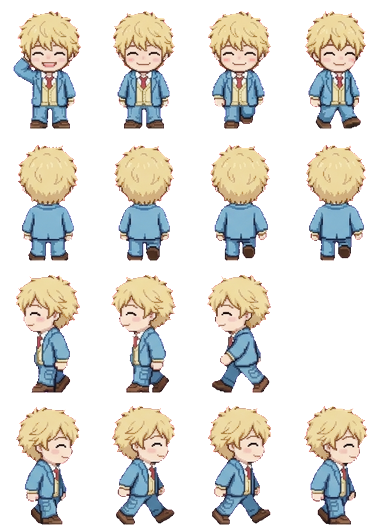
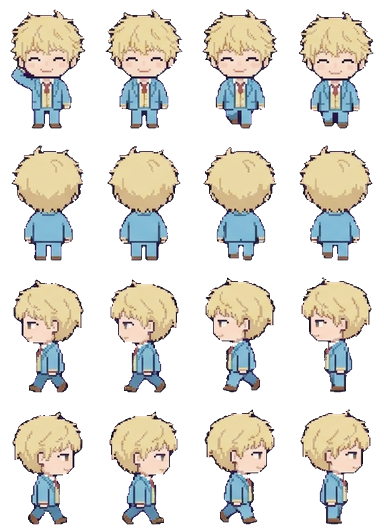
Redraw Shima Sousuke in the shared art style
Claude-Session: https://claude.ai/code/session_01KaPsBYLrtbRfMYNG2xeBCK

diff --git a/docs/app.js b/docs/app.js
@@ -75,7 +75,7 @@ function spr(cat, k, col, sc) {
   return `<div class="clip" style="width:${it[2] * sc}px;height:${it[3] * sc}px;POS"><img class="px" src="assets/decor/${cat}.png" alt="" style="width:${S.sw * sc}px;height:${S.sh * sc}px;margin-left:${-col * S.cw * sc}px;margin-top:${-i * S.ch * sc}px"></div>`;
 }
 const icon = (k, sz) => `<span class="itm" style="width:${sz}px;height:${sz}px"><img class="px" src="assets/ui/items.png" alt="" style="width:${IT.length * sz}px;height:${sz}px;margin-left:${-ITM[k].i * sz}px"></span>`;
-const face = (id, w) => { const s = w / 96; return `<img class="px" src="assets/ch/${id}.webp?v=39" alt="" style="position:absolute;width:${384 * s}px;height:${528 * s}px;left:${-(96 * s - w) / 2}px;top:0;max-width:none">`; };
+const face = (id, w) => { const s = w / 96; return `<img class="px" src="assets/ch/${id}.webp?v=40" alt="" style="position:absolute;width:${384 * s}px;height:${528 * s}px;left:${-(96 * s - w) / 2}px;top:0;max-width:none">`; };
 
 // ---------- 저장 ----------
 let fb = null, user = null, S = null, saveT = null;
@@ -143,7 +143,7 @@ function sleepHTML(id, r, dy) {
   const pos = r.a && r.a[0] === 'bed' ? 'left:3%;bottom:20%' : r.b && r.b[0] === 'bed' ? 'right:3%;bottom:20%' : 'left:calc(50% - 44px);bottom:6%';
   const s = 36 / 96;
   return `<div style="position:absolute;width:88px;height:56px;${pos};z-index:${dy ? 4 : 5};${dy ? `transform:translate(12px,${dy}px)` : ''}"><div style="position:absolute;inset:0;filter:brightness(.22)">
-    <div style="position:absolute;left:11px;top:1px;width:36px;height:50px;overflow:hidden;transform:rotate(-90deg)"><img class="px" src="assets/ch/${id}.webp?v=39" alt="" style="width:${384 * s}px;height:${528 * s}px;max-width:none;margin-top:${-132 * s}px"></div>
+    <div style="position:absolute;left:11px;top:1px;width:36px;height:50px;overflow:hidden;transform:rotate(-90deg)"><img class="px" src="assets/ch/${id}.webp?v=40" alt="" style="width:${384 * s}px;height:${528 * s}px;max-width:none;margin-top:${-132 * s}px"></div>
     <div style="position:absolute;left:19px;top:19px;width:67px;height:29px;border:2px solid var(--ink);border-radius:8px 6px 4px 4px;background:#8ccff5;background-image:repeating-linear-gradient(90deg,transparent 0 10px,rgba(255,255,255,.5) 10px 13px)"></div></div>
     ${dy ? '' : '<span class="emo" style="left:8px;top:-22px;color:#5b6bd6">Z z z</span>'}</div>`;
 }
@@ -153,8 +153,8 @@ function roomHTML(id, o, scale) {
     <div class="floor" style="background-color:${PAL[r.fc][1]};background-image:${tileUrl('floor', r.fl)}"></div>
     ${slot('deco', r.dc, 'left:6%;top:6%')}${slot('furn', r.a, 'left:3%;bottom:20%')}${slot('furn', r.b, 'right:3%;bottom:20%')}${slot('prop', r.pr, 'left:28%;bottom:4%;z-index:2')}
     ${id && o.sleeping && g ? sleepHTML(g, r, -16) : ''}${id && o.sleeping ? sleepHTML(id, r) : ''}${id && o.job ? `<div style="position:absolute;left:50%;top:38%;transform:translateX(-50%);z-index:5;background:#fff;border:3px solid var(--ink);border-radius:10px;padding:6px 10px;font-size:11px;text-align:center;line-height:1.5"><img src="assets/ui/ic_job.png" alt="" style="width:18px;vertical-align:-4px"> ${WORK[id] ? WORK[id][1] : esc(JOB_NAME[id]) + ' 알바 중'}${g ? `<br><small>${esc(nameOf(g))}도 같이</small>` : ''}<br><b id="jobleft">${timeLeft(o.job.until)}</b></div>` : ''}
-    ${id ? `<div class="shadow" id="shd" ${o.sleeping || o.job ? 'style="display:none"' : ''}></div><div class="man" id="man" ${o.sleeping || o.job ? 'style="display:none"' : ''}><img class="px" src="assets/ch/${id}.webp?v=39" alt="${esc(nameOf(id))}"></div><span class="emo" id="emo" hidden></span><span class="mumble" id="mum" hidden></span>` : ''}
-    ${g ? `<div class="shadow" id="gshd" ${hideG}></div><div class="man" id="gman" ${hideG}><img class="px" src="assets/ch/${g}.webp?v=39" alt="${esc(nameOf(g))}"></div><span class="emo" id="gemo" hidden></span><span class="mumble gmum" id="gmum" hidden></span>` : ''}
+    ${id ? `<div class="shadow" id="shd" ${o.sleeping || o.job ? 'style="display:none"' : ''}></div><div class="man" id="man" ${o.sleeping || o.job ? 'style="display:none"' : ''}><img class="px" src="assets/ch/${id}.webp?v=40" alt="${esc(nameOf(id))}"></div><span class="emo" id="emo" hidden></span><span class="mumble" id="mum" hidden></span>` : ''}
+    ${g ? `<div class="shadow" id="gshd" ${hideG}></div><div class="man" id="gman" ${hideG}><img class="px" src="assets/ch/${g}.webp?v=40" alt="${esc(nameOf(g))}"></div><span class="emo" id="gemo" hidden></span><span class="mumble gmum" id="gmum" hidden></span>` : ''}
     ${o.sleeping ? `<div class="night"></div><div class="sleepleft">쿨쿨 · 일어나기까지 <b id="sleepleft">${timeLeft(wakeAt(o)).replace(' 남음', '')}</b></div>` : ''}
   </div>`;
 }
@@ -167,7 +167,7 @@ function meterHTML(o) {
 const ic = (act, img, label, pressed) => `<button class="ic" data-act="${act}" ${pressed ? 'aria-pressed="true"' : ''}><img src="assets/ui/ic_${img}.png?v=2" alt="">${label}</button>`;
 
 let dropStyle = null; const cheat = {};
-const APP_V = 111, COUPONS = { NINOGUYA: 3000 };
+const APP_V = 112, COUPONS = { NINOGUYA: 3000 };
 // 쿠폰 입력 정리: 한글 자판 상태로 친 글자(ㅜㅑㅜㅐ혀ㅛㅁ)도 영어 자판 글자로 바꾸고, 대소문자·띄어쓰기·마침표는 무시해요
 const KEY = { ㄱ: 'r', ㄲ: 'R', ㄴ: 's', ㄷ: 'e', ㄸ: 'E', ㄹ: 'f', ㅁ: 'a', ㅂ: 'q', ㅃ: 'Q', ㅅ: 't', ㅆ: 'T', ㅇ: 'd', ㅈ: 'w', ㅉ: 'W', ㅊ: 'c', ㅋ: 'z', ㅌ: 'x', ㅍ: 'v', ㅎ: 'g',
   ㅏ: 'k', ㅐ: 'o', ㅑ: 'i', ㅒ: 'O', ㅓ: 'j', ㅔ: 'p', ㅕ: 'u', ㅖ: 'P', ㅗ: 'h', ㅘ: 'hk', ㅙ: 'ho', ㅚ: 'hl', ㅛ: 'y', ㅜ: 'n', ㅝ: 'nj', ㅞ: 'np', ㅟ: 'nl', ㅠ: 'b', ㅡ: 'm', ㅢ: 'ml', ㅣ: 'l',
@@ -407,7 +407,7 @@ function startTrip(k) {
   if (tg) lines[1] = `${nameOf(tg)}: ${withHim(sub(pick(GLX(tg).trip), o, c.n), tg)}`;
   const n = (FR[id] || [4, 4, 4, 4])[3], el = document.createElement('div'); el.className = 'tripview';
   el.innerHTML = `<div class="tsay"> </div><div class="tstage" style="background-image:url(assets/travel/${k}.png?v=2)"><div class="tplace">${esc(c.n)}</div>
-    <div class="twalker"><img class="px" src="assets/ch/${id}.webp?v=39" alt=""></div>${tg ? `<div class="twalker tgirl"><img class="px" src="assets/ch/${tg}.webp?v=39" alt=""></div>` : ''}<span class="emo tjoy">♪</span></div>
+    <div class="twalker"><img class="px" src="assets/ch/${id}.webp?v=40" alt=""></div>${tg ? `<div class="twalker tgirl"><img class="px" src="assets/ch/${tg}.webp?v=40" alt=""></div>` : ''}<span class="emo tjoy">♪</span></div>
     <div class="tbar"><i></i></div><button class="btn white tskip" data-tskip="1">바로 돌아오기</button>`;
   document.body.appendChild(el);
   const gimg = el.querySelector('.tgirl img'), gn = tg ? (FR[tg] || [4, 4, 4, 4])[3] : 1;
@@ -636,7 +636,7 @@ setInterval(() => { if (S && user) { tickTime(); save(); } }, 60000);
     if (nv > APP_V && !location.search.includes('u=' + nv)) { location.replace(location.pathname + '?u=' + nv); return; }
   } catch { }
   app.innerHTML = '<div class="start"><div class="egg"><div class="scr"></div></div><div class="note">불러오는 중....</div></div>';
-  const [c, t, f, it, mu, ct, tv, gl, sts] = await Promise.all(['data/chars.json', 'data/talk.json', 'data/frames.json', 'data/items.json', 'data/mumble.json', 'data/countries.json', 'data/travel.json', 'data/girls.json', 'data/sets.json'].map(u => fetch(u + '?v=111').then(r => r.ok ? r.json() : {})));
+  const [c, t, f, it, mu, ct, tv, gl, sts] = await Promise.all(['data/chars.json', 'data/talk.json', 'data/frames.json', 'data/items.json', 'data/mumble.json', 'data/countries.json', 'data/travel.json', 'data/girls.json', 'data/sets.json'].map(u => fetch(u + '?v=112').then(r => r.ok ? r.json() : {})));
   CH = c; CHM = Object.fromEntries(c.map(x => [x.id, x])); TALK = t; FR = f; IT = it; ITM = Object.fromEntries(it.map(x => [x.k, x])); MUM = mu; CTRY = ct; TRV = tv; GL = Array.isArray(gl) ? gl : []; SETS = Array.isArray(sts) ? sts : []; GLM = Object.fromEntries(GL.map(x => [x.id, x]));
   try { await initFirebase(); } catch (e) { console.warn('Firebase 연결 실패, 기기 저장으로', e); fb = null; }
   if (fb) {

diff --git a/docs/index.html b/docs/index.html
@@ -18,6 +18,6 @@
 <main id="app" aria-live="polite"></main>
 <div id="toast" role="status" hidden></div>
 <script src="firebase-config.js?v=3"></script>
-<script type="module" src="app.js?v=111"></script>
+<script type="module" src="app.js?v=112"></script>
 </body>
 </html>
